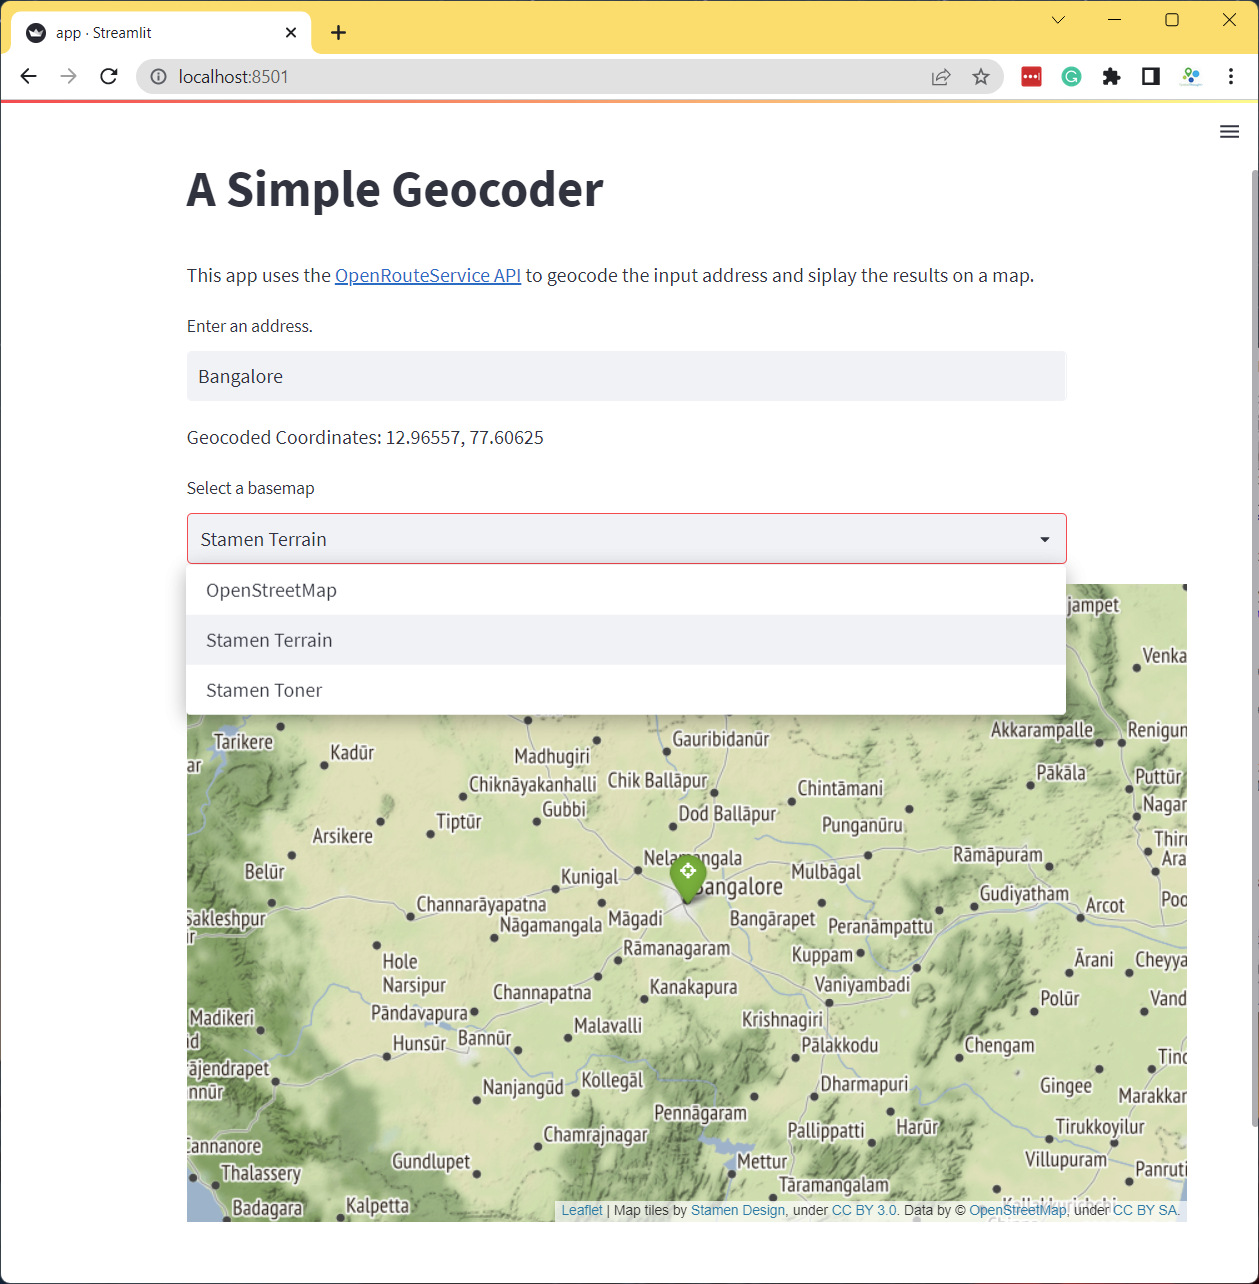
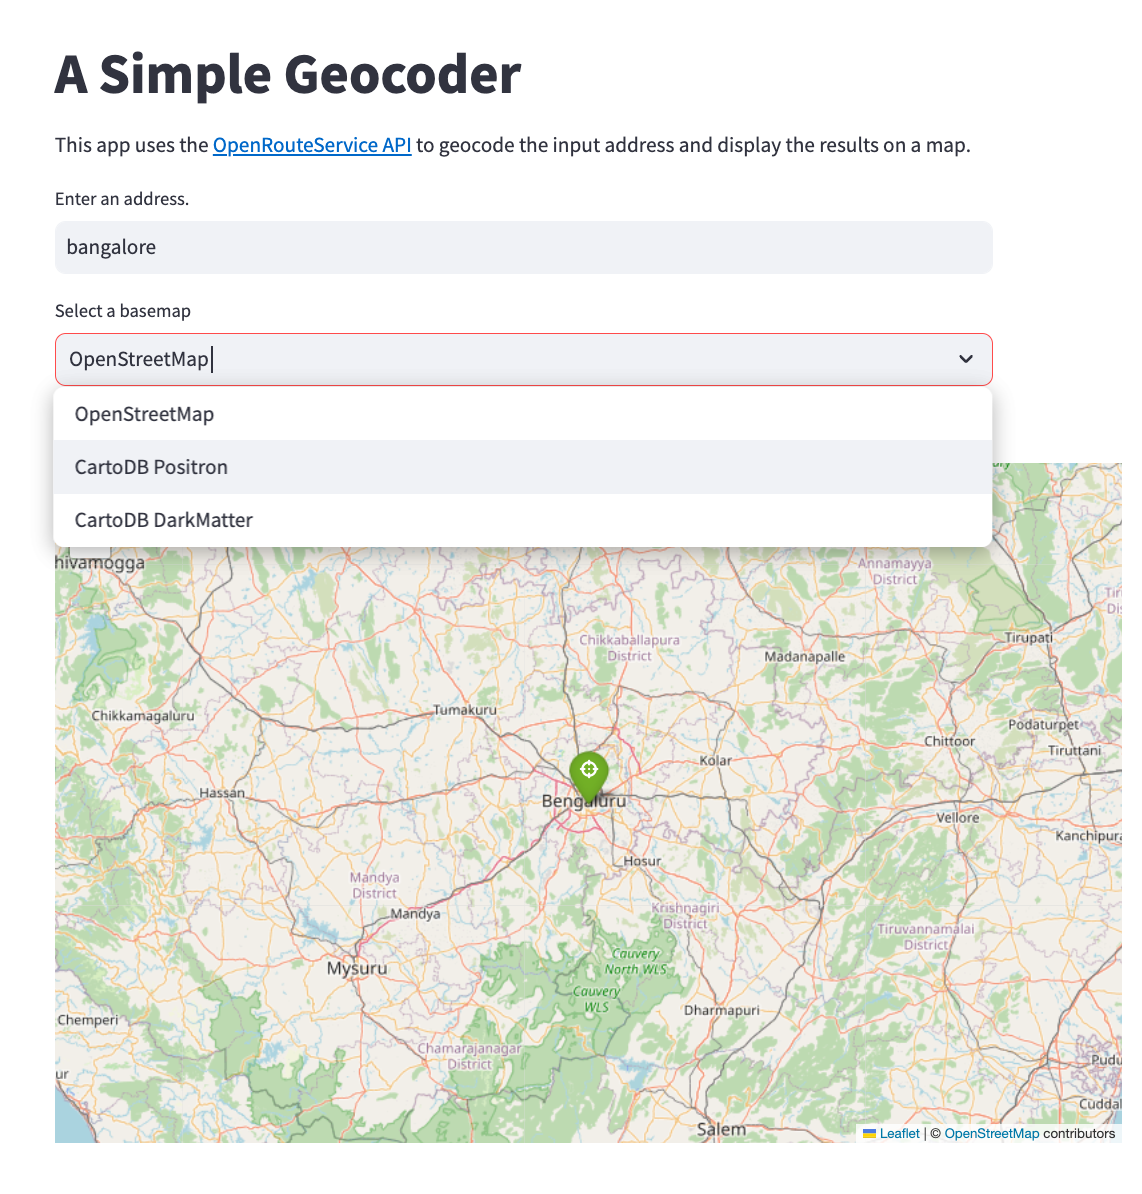
update

diff --git a/docs/python-dataviz.html b/docs/python-dataviz.html
@@ -3039,7 +3039,10 @@ to stop the streamlit server.</p>
 <p>Let’s create a simple interactive dashboard by loading a CSV file and
 displaying a chart with some statistics. We will get familiar with the
 streamlit app development workflow and explore different widgets and
-layout elements.</p>
+layout elements. View the final app at <a
+href="https://simpledashboard.streamlit.app/"><img
+src="https://static.streamlit.io/badges/streamlit_badge_black_white.svg"
+alt="A Simple Dashboard" /></a></p>
 <ol style="list-style-type: decimal">
 <li>Create a folder named <strong>simple_dashboard</strong> on your
 Desktop.</li>
@@ -3091,13 +3094,14 @@ class="sourceCode python"><code class="sourceCode python"><span id="cb185-1"><a 
 <span id="cb185-6"><a href="#cb185-6" tabindex="-1"></a>st.write(<span class="st">&#39;This dashboard displays a chart for the selected region.&#39;</span>)</span>
 <span id="cb185-7"><a href="#cb185-7" tabindex="-1"></a></span>
 <span id="cb185-8"><a href="#cb185-8" tabindex="-1"></a></span>
-<span id="cb185-9"><a href="#cb185-9" tabindex="-1"></a>data_url <span class="op">=</span> <span class="st">&#39;https://storage.googleapis.com/spatialthoughts-public-data/python-dataviz/osm/&#39;</span></span>
-<span id="cb185-10"><a href="#cb185-10" tabindex="-1"></a>csv_file <span class="op">=</span> <span class="st">&#39;highway_lengths_by_district.csv&#39;</span></span>
-<span id="cb185-11"><a href="#cb185-11" tabindex="-1"></a></span>
-<span id="cb185-12"><a href="#cb185-12" tabindex="-1"></a>url <span class="op">=</span> data_url <span class="op">+</span> csv_file</span>
-<span id="cb185-13"><a href="#cb185-13" tabindex="-1"></a>df <span class="op">=</span> pd.read_csv(url)</span>
-<span id="cb185-14"><a href="#cb185-14" tabindex="-1"></a></span>
-<span id="cb185-15"><a href="#cb185-15" tabindex="-1"></a>st.dataframe(df)</span></code></pre></div>
+<span id="cb185-9"><a href="#cb185-9" tabindex="-1"></a> data_url <span class="op">=</span> <span class="st">&#39;https://github.com/spatialthoughts/python-dataviz-web/releases/&#39;</span> \</span>
+<span id="cb185-10"><a href="#cb185-10" tabindex="-1"></a>      <span class="st">&#39;download/osm/&#39;</span></span>
+<span id="cb185-11"><a href="#cb185-11" tabindex="-1"></a>csv_file <span class="op">=</span> <span class="st">&#39;highway_lengths_by_district.csv&#39;</span></span>
+<span id="cb185-12"><a href="#cb185-12" tabindex="-1"></a></span>
+<span id="cb185-13"><a href="#cb185-13" tabindex="-1"></a>url <span class="op">=</span> data_url <span class="op">+</span> csv_file</span>
+<span id="cb185-14"><a href="#cb185-14" tabindex="-1"></a>df <span class="op">=</span> pd.read_csv(url)</span>
+<span id="cb185-15"><a href="#cb185-15" tabindex="-1"></a></span>
+<span id="cb185-16"><a href="#cb185-16" tabindex="-1"></a>st.dataframe(df)</span></code></pre></div>
 <p><img src="images/python_dataviz/dashboard5.png" width="75%" style="display: block; margin: auto;" /></p>
 <ol start="6" style="list-style-type: decimal">
 <li>The app will now display the dataframe. The dataframe consists of 3
@@ -3133,18 +3137,19 @@ class="sourceCode python"><code class="sourceCode python"><span id="cb186-1"><a 
 <span id="cb186-7"><a href="#cb186-7" tabindex="-1"></a></span>
 <span id="cb186-8"><a href="#cb186-8" tabindex="-1"></a><span class="at">@st.cache_data</span></span>
 <span id="cb186-9"><a href="#cb186-9" tabindex="-1"></a><span class="kw">def</span> load_data():</span>
-<span id="cb186-10"><a href="#cb186-10" tabindex="-1"></a>    data_url <span class="op">=</span> <span class="st">&#39;https://storage.googleapis.com/spatialthoughts-public-data/python-dataviz/osm/&#39;</span></span>
-<span id="cb186-11"><a href="#cb186-11" tabindex="-1"></a>    csv_file <span class="op">=</span> <span class="st">&#39;highway_lengths_by_district.csv&#39;</span></span>
-<span id="cb186-12"><a href="#cb186-12" tabindex="-1"></a></span>
-<span id="cb186-13"><a href="#cb186-13" tabindex="-1"></a>    url <span class="op">=</span> data_url <span class="op">+</span> csv_file</span>
-<span id="cb186-14"><a href="#cb186-14" tabindex="-1"></a>    df <span class="op">=</span> pd.read_csv(url)</span>
-<span id="cb186-15"><a href="#cb186-15" tabindex="-1"></a>    </span>
-<span id="cb186-16"><a href="#cb186-16" tabindex="-1"></a>    <span class="cf">return</span> df</span>
-<span id="cb186-17"><a href="#cb186-17" tabindex="-1"></a></span>
-<span id="cb186-18"><a href="#cb186-18" tabindex="-1"></a>df <span class="op">=</span> load_data()</span>
-<span id="cb186-19"><a href="#cb186-19" tabindex="-1"></a></span>
-<span id="cb186-20"><a href="#cb186-20" tabindex="-1"></a>districts <span class="op">=</span> df.DISTRICT.values</span>
-<span id="cb186-21"><a href="#cb186-21" tabindex="-1"></a>district <span class="op">=</span> st.selectbox(<span class="st">&#39;Select a district&#39;</span>, districts)</span></code></pre></div>
+<span id="cb186-10"><a href="#cb186-10" tabindex="-1"></a>      data_url <span class="op">=</span> <span class="st">&#39;https://github.com/spatialthoughts/python-dataviz-web/releases/&#39;</span> \</span>
+<span id="cb186-11"><a href="#cb186-11" tabindex="-1"></a>        <span class="st">&#39;download/osm/&#39;</span></span>
+<span id="cb186-12"><a href="#cb186-12" tabindex="-1"></a>      csv_file <span class="op">=</span> <span class="st">&#39;highway_lengths_by_district.csv&#39;</span></span>
+<span id="cb186-13"><a href="#cb186-13" tabindex="-1"></a></span>
+<span id="cb186-14"><a href="#cb186-14" tabindex="-1"></a>    url <span class="op">=</span> data_url <span class="op">+</span> csv_file</span>
+<span id="cb186-15"><a href="#cb186-15" tabindex="-1"></a>    df <span class="op">=</span> pd.read_csv(url)</span>
+<span id="cb186-16"><a href="#cb186-16" tabindex="-1"></a>    </span>
+<span id="cb186-17"><a href="#cb186-17" tabindex="-1"></a>    <span class="cf">return</span> df</span>
+<span id="cb186-18"><a href="#cb186-18" tabindex="-1"></a></span>
+<span id="cb186-19"><a href="#cb186-19" tabindex="-1"></a>df <span class="op">=</span> load_data()</span>
+<span id="cb186-20"><a href="#cb186-20" tabindex="-1"></a></span>
+<span id="cb186-21"><a href="#cb186-21" tabindex="-1"></a>districts <span class="op">=</span> df.DISTRICT.values</span>
+<span id="cb186-22"><a href="#cb186-22" tabindex="-1"></a>district <span class="op">=</span> st.selectbox(<span class="st">&#39;Select a district&#39;</span>, districts)</span></code></pre></div>
 <p><img src="images/python_dataviz/dashboard7.png" width="75%" style="display: block; margin: auto;" /></p>
 <ol start="8" style="list-style-type: decimal">
 <li>As the user selects an admin region from the selectbox, the selected
@@ -3164,27 +3169,28 @@ class="sourceCode python"><code class="sourceCode python"><span id="cb187-1"><a 
 <span id="cb187-8"><a href="#cb187-8" tabindex="-1"></a></span>
 <span id="cb187-9"><a href="#cb187-9" tabindex="-1"></a><span class="at">@st.cache_data</span></span>
 <span id="cb187-10"><a href="#cb187-10" tabindex="-1"></a><span class="kw">def</span> load_data():</span>
-<span id="cb187-11"><a href="#cb187-11" tabindex="-1"></a>    data_url <span class="op">=</span> <span class="st">&#39;https://storage.googleapis.com/spatialthoughts-public-data/python-dataviz/osm/&#39;</span></span>
-<span id="cb187-12"><a href="#cb187-12" tabindex="-1"></a>    csv_file <span class="op">=</span> <span class="st">&#39;highway_lengths_by_district.csv&#39;</span></span>
-<span id="cb187-13"><a href="#cb187-13" tabindex="-1"></a></span>
-<span id="cb187-14"><a href="#cb187-14" tabindex="-1"></a>    url <span class="op">=</span> data_url <span class="op">+</span> csv_file</span>
-<span id="cb187-15"><a href="#cb187-15" tabindex="-1"></a>    df <span class="op">=</span> pd.read_csv(url)</span>
-<span id="cb187-16"><a href="#cb187-16" tabindex="-1"></a>    </span>
-<span id="cb187-17"><a href="#cb187-17" tabindex="-1"></a>    <span class="cf">return</span> df</span>
-<span id="cb187-18"><a href="#cb187-18" tabindex="-1"></a></span>
-<span id="cb187-19"><a href="#cb187-19" tabindex="-1"></a>df <span class="op">=</span> load_data()</span>
-<span id="cb187-20"><a href="#cb187-20" tabindex="-1"></a></span>
-<span id="cb187-21"><a href="#cb187-21" tabindex="-1"></a>districts <span class="op">=</span> df.DISTRICT.values</span>
-<span id="cb187-22"><a href="#cb187-22" tabindex="-1"></a>district <span class="op">=</span> st.selectbox(<span class="st">&#39;Select a district&#39;</span>, districts)</span>
-<span id="cb187-23"><a href="#cb187-23" tabindex="-1"></a>filtered <span class="op">=</span> df[df[<span class="st">&#39;DISTRICT&#39;</span>] <span class="op">==</span> district] </span>
-<span id="cb187-24"><a href="#cb187-24" tabindex="-1"></a></span>
+<span id="cb187-11"><a href="#cb187-11" tabindex="-1"></a>    data_url <span class="op">=</span> <span class="st">&#39;https://github.com/spatialthoughts/python-dataviz-web/releases/&#39;</span> \</span>
+<span id="cb187-12"><a href="#cb187-12" tabindex="-1"></a>        <span class="st">&#39;download/osm/&#39;</span></span>
+<span id="cb187-13"><a href="#cb187-13" tabindex="-1"></a>    csv_file <span class="op">=</span> <span class="st">&#39;highway_lengths_by_district.csv&#39;</span></span>
+<span id="cb187-14"><a href="#cb187-14" tabindex="-1"></a></span>
+<span id="cb187-15"><a href="#cb187-15" tabindex="-1"></a>    url <span class="op">=</span> data_url <span class="op">+</span> csv_file</span>
+<span id="cb187-16"><a href="#cb187-16" tabindex="-1"></a>    df <span class="op">=</span> pd.read_csv(url)</span>
+<span id="cb187-17"><a href="#cb187-17" tabindex="-1"></a>    </span>
+<span id="cb187-18"><a href="#cb187-18" tabindex="-1"></a>    <span class="cf">return</span> df</span>
+<span id="cb187-19"><a href="#cb187-19" tabindex="-1"></a></span>
+<span id="cb187-20"><a href="#cb187-20" tabindex="-1"></a>df <span class="op">=</span> load_data()</span>
+<span id="cb187-21"><a href="#cb187-21" tabindex="-1"></a></span>
+<span id="cb187-22"><a href="#cb187-22" tabindex="-1"></a>districts <span class="op">=</span> df.DISTRICT.values</span>
+<span id="cb187-23"><a href="#cb187-23" tabindex="-1"></a>district <span class="op">=</span> st.selectbox(<span class="st">&#39;Select a district&#39;</span>, districts)</span>
+<span id="cb187-24"><a href="#cb187-24" tabindex="-1"></a>filtered <span class="op">=</span> df[df[<span class="st">&#39;DISTRICT&#39;</span>] <span class="op">==</span> district] </span>
 <span id="cb187-25"><a href="#cb187-25" tabindex="-1"></a></span>
-<span id="cb187-26"><a href="#cb187-26" tabindex="-1"></a>fig, ax <span class="op">=</span> plt.subplots(<span class="dv">1</span>, <span class="dv">1</span>)</span>
-<span id="cb187-27"><a href="#cb187-27" tabindex="-1"></a></span>
-<span id="cb187-28"><a href="#cb187-28" tabindex="-1"></a>filtered.plot(kind<span class="op">=</span><span class="st">&#39;bar&#39;</span>, ax<span class="op">=</span>ax, color<span class="op">=</span>[<span class="st">&#39;#0000FF&#39;</span>, <span class="st">&#39;#FF0000&#39;</span>],</span>
-<span id="cb187-29"><a href="#cb187-29" tabindex="-1"></a>    ylabel<span class="op">=</span><span class="st">&#39;Kilometers&#39;</span>, xlabel<span class="op">=</span><span class="st">&#39;Category&#39;</span>)</span>
-<span id="cb187-30"><a href="#cb187-30" tabindex="-1"></a>ax.set_xticklabels([])</span>
-<span id="cb187-31"><a href="#cb187-31" tabindex="-1"></a>stats <span class="op">=</span> st.pyplot(fig)</span></code></pre></div>
+<span id="cb187-26"><a href="#cb187-26" tabindex="-1"></a></span>
+<span id="cb187-27"><a href="#cb187-27" tabindex="-1"></a>fig, ax <span class="op">=</span> plt.subplots(<span class="dv">1</span>, <span class="dv">1</span>)</span>
+<span id="cb187-28"><a href="#cb187-28" tabindex="-1"></a></span>
+<span id="cb187-29"><a href="#cb187-29" tabindex="-1"></a>filtered.plot(kind<span class="op">=</span><span class="st">&#39;bar&#39;</span>, ax<span class="op">=</span>ax, color<span class="op">=</span>[<span class="st">&#39;#0000FF&#39;</span>, <span class="st">&#39;#FF0000&#39;</span>],</span>
+<span id="cb187-30"><a href="#cb187-30" tabindex="-1"></a>    ylabel<span class="op">=</span><span class="st">&#39;Kilometers&#39;</span>, xlabel<span class="op">=</span><span class="st">&#39;Category&#39;</span>)</span>
+<span id="cb187-31"><a href="#cb187-31" tabindex="-1"></a>ax.set_xticklabels([])</span>
+<span id="cb187-32"><a href="#cb187-32" tabindex="-1"></a>stats <span class="op">=</span> st.pyplot(fig)</span></code></pre></div>
 <p><img src="images/python_dataviz/dashboard8.png" width="75%" style="display: block; margin: auto;" /></p>
 <ol start="9" style="list-style-type: decimal">
 <li>Our dashboard now displays an updated chart every-time you change
@@ -3210,34 +3216,35 @@ class="sourceCode python"><code class="sourceCode python"><span id="cb188-1"><a 
 <span id="cb188-7"><a href="#cb188-7" tabindex="-1"></a></span>
 <span id="cb188-8"><a href="#cb188-8" tabindex="-1"></a><span class="at">@st.cache_data</span></span>
 <span id="cb188-9"><a href="#cb188-9" tabindex="-1"></a><span class="kw">def</span> load_data():</span>
-<span id="cb188-10"><a href="#cb188-10" tabindex="-1"></a>    data_url <span class="op">=</span> <span class="st">&#39;https://storage.googleapis.com/spatialthoughts-public-data/python-dataviz/osm/&#39;</span></span>
-<span id="cb188-11"><a href="#cb188-11" tabindex="-1"></a>    csv_file <span class="op">=</span> <span class="st">&#39;highway_lengths_by_district.csv&#39;</span></span>
-<span id="cb188-12"><a href="#cb188-12" tabindex="-1"></a></span>
-<span id="cb188-13"><a href="#cb188-13" tabindex="-1"></a>    url <span class="op">=</span> data_url <span class="op">+</span> csv_file</span>
-<span id="cb188-14"><a href="#cb188-14" tabindex="-1"></a>    df <span class="op">=</span> pd.read_csv(url)</span>
-<span id="cb188-15"><a href="#cb188-15" tabindex="-1"></a>    </span>
-<span id="cb188-16"><a href="#cb188-16" tabindex="-1"></a>    <span class="cf">return</span> df</span>
-<span id="cb188-17"><a href="#cb188-17" tabindex="-1"></a></span>
-<span id="cb188-18"><a href="#cb188-18" tabindex="-1"></a>df <span class="op">=</span> load_data()</span>
-<span id="cb188-19"><a href="#cb188-19" tabindex="-1"></a></span>
-<span id="cb188-20"><a href="#cb188-20" tabindex="-1"></a>districts <span class="op">=</span> df.DISTRICT.values</span>
-<span id="cb188-21"><a href="#cb188-21" tabindex="-1"></a>district <span class="op">=</span> st.selectbox(<span class="st">&#39;Select a district&#39;</span>, districts)</span>
-<span id="cb188-22"><a href="#cb188-22" tabindex="-1"></a>filtered <span class="op">=</span> df[df[<span class="st">&#39;DISTRICT&#39;</span>] <span class="op">==</span> district] </span>
-<span id="cb188-23"><a href="#cb188-23" tabindex="-1"></a></span>
-<span id="cb188-24"><a href="#cb188-24" tabindex="-1"></a>col1, col2 <span class="op">=</span> st.columns(<span class="dv">2</span>)</span>
-<span id="cb188-25"><a href="#cb188-25" tabindex="-1"></a></span>
-<span id="cb188-26"><a href="#cb188-26" tabindex="-1"></a>nh_color <span class="op">=</span> col1.color_picker(<span class="st">&#39;Pick NH Color&#39;</span>, <span class="st">&#39;#0000FF&#39;</span>, key<span class="op">=</span><span class="st">&#39;nh&#39;</span>)</span>
-<span id="cb188-27"><a href="#cb188-27" tabindex="-1"></a>sh_color <span class="op">=</span> col2.color_picker(<span class="st">&#39;Pick SH Color&#39;</span>, <span class="st">&#39;#FF0000&#39;</span>, key<span class="op">=</span><span class="st">&#39;sh&#39;</span>)</span>
-<span id="cb188-28"><a href="#cb188-28" tabindex="-1"></a></span>
-<span id="cb188-29"><a href="#cb188-29" tabindex="-1"></a>    </span>
-<span id="cb188-30"><a href="#cb188-30" tabindex="-1"></a>fig, ax <span class="op">=</span> plt.subplots(<span class="dv">1</span>, <span class="dv">1</span>)</span>
-<span id="cb188-31"><a href="#cb188-31" tabindex="-1"></a></span>
-<span id="cb188-32"><a href="#cb188-32" tabindex="-1"></a>filtered.plot(kind<span class="op">=</span><span class="st">&#39;bar&#39;</span>, ax<span class="op">=</span>ax, color<span class="op">=</span>[nh_color, sh_color],</span>
-<span id="cb188-33"><a href="#cb188-33" tabindex="-1"></a>    ylabel<span class="op">=</span><span class="st">&#39;Kilometers&#39;</span>, xlabel<span class="op">=</span><span class="st">&#39;Category&#39;</span>)</span>
-<span id="cb188-34"><a href="#cb188-34" tabindex="-1"></a>ax.set_title(<span class="st">&#39;Length of Highways&#39;</span>)</span>
-<span id="cb188-35"><a href="#cb188-35" tabindex="-1"></a>ax.set_ylim(<span class="dv">0</span>, <span class="dv">2500</span>)</span>
-<span id="cb188-36"><a href="#cb188-36" tabindex="-1"></a>ax.set_xticklabels([])</span>
-<span id="cb188-37"><a href="#cb188-37" tabindex="-1"></a>stats <span class="op">=</span> st.pyplot(fig)</span></code></pre></div>
+<span id="cb188-10"><a href="#cb188-10" tabindex="-1"></a>    data_url <span class="op">=</span> <span class="st">&#39;https://github.com/spatialthoughts/python-dataviz-web/releases/&#39;</span> \</span>
+<span id="cb188-11"><a href="#cb188-11" tabindex="-1"></a>        <span class="st">&#39;download/osm/&#39;</span></span>
+<span id="cb188-12"><a href="#cb188-12" tabindex="-1"></a>    csv_file <span class="op">=</span> <span class="st">&#39;highway_lengths_by_district.csv&#39;</span></span>
+<span id="cb188-13"><a href="#cb188-13" tabindex="-1"></a></span>
+<span id="cb188-14"><a href="#cb188-14" tabindex="-1"></a>    url <span class="op">=</span> data_url <span class="op">+</span> csv_file</span>
+<span id="cb188-15"><a href="#cb188-15" tabindex="-1"></a>    df <span class="op">=</span> pd.read_csv(url)</span>
+<span id="cb188-16"><a href="#cb188-16" tabindex="-1"></a>    </span>
+<span id="cb188-17"><a href="#cb188-17" tabindex="-1"></a>    <span class="cf">return</span> df</span>
+<span id="cb188-18"><a href="#cb188-18" tabindex="-1"></a></span>
+<span id="cb188-19"><a href="#cb188-19" tabindex="-1"></a>df <span class="op">=</span> load_data()</span>
+<span id="cb188-20"><a href="#cb188-20" tabindex="-1"></a></span>
+<span id="cb188-21"><a href="#cb188-21" tabindex="-1"></a>districts <span class="op">=</span> df.DISTRICT.values</span>
+<span id="cb188-22"><a href="#cb188-22" tabindex="-1"></a>district <span class="op">=</span> st.selectbox(<span class="st">&#39;Select a district&#39;</span>, districts)</span>
+<span id="cb188-23"><a href="#cb188-23" tabindex="-1"></a>filtered <span class="op">=</span> df[df[<span class="st">&#39;DISTRICT&#39;</span>] <span class="op">==</span> district] </span>
+<span id="cb188-24"><a href="#cb188-24" tabindex="-1"></a></span>
+<span id="cb188-25"><a href="#cb188-25" tabindex="-1"></a>col1, col2 <span class="op">=</span> st.columns(<span class="dv">2</span>)</span>
+<span id="cb188-26"><a href="#cb188-26" tabindex="-1"></a></span>
+<span id="cb188-27"><a href="#cb188-27" tabindex="-1"></a>nh_color <span class="op">=</span> col1.color_picker(<span class="st">&#39;Pick NH Color&#39;</span>, <span class="st">&#39;#0000FF&#39;</span>, key<span class="op">=</span><span class="st">&#39;nh&#39;</span>)</span>
+<span id="cb188-28"><a href="#cb188-28" tabindex="-1"></a>sh_color <span class="op">=</span> col2.color_picker(<span class="st">&#39;Pick SH Color&#39;</span>, <span class="st">&#39;#FF0000&#39;</span>, key<span class="op">=</span><span class="st">&#39;sh&#39;</span>)</span>
+<span id="cb188-29"><a href="#cb188-29" tabindex="-1"></a></span>
+<span id="cb188-30"><a href="#cb188-30" tabindex="-1"></a>    </span>
+<span id="cb188-31"><a href="#cb188-31" tabindex="-1"></a>fig, ax <span class="op">=</span> plt.subplots(<span class="dv">1</span>, <span class="dv">1</span>)</span>
+<span id="cb188-32"><a href="#cb188-32" tabindex="-1"></a></span>
+<span id="cb188-33"><a href="#cb188-33" tabindex="-1"></a>filtered.plot(kind<span class="op">=</span><span class="st">&#39;bar&#39;</span>, ax<span class="op">=</span>ax, color<span class="op">=</span>[nh_color, sh_color],</span>
+<span id="cb188-34"><a href="#cb188-34" tabindex="-1"></a>    ylabel<span class="op">=</span><span class="st">&#39;Kilometers&#39;</span>, xlabel<span class="op">=</span><span class="st">&#39;Category&#39;</span>)</span>
+<span id="cb188-35"><a href="#cb188-35" tabindex="-1"></a>ax.set_title(<span class="st">&#39;Length of Highways&#39;</span>)</span>
+<span id="cb188-36"><a href="#cb188-36" tabindex="-1"></a>ax.set_ylim(<span class="dv">0</span>, <span class="dv">2500</span>)</span>
+<span id="cb188-37"><a href="#cb188-37" tabindex="-1"></a>ax.set_xticklabels([])</span>
+<span id="cb188-38"><a href="#cb188-38" tabindex="-1"></a>stats <span class="op">=</span> st.pyplot(fig)</span></code></pre></div>
 <p><img src="images/python_dataviz/dashboard9.png" width="75%" style="display: block; margin: auto;" /></p>
 </div>
 <div id="exercise-10" class="section level2">
@@ -3376,7 +3383,7 @@ class="sourceCode python"><code class="sourceCode python"><span id="cb191-1"><a 
 basemap of the Folium map.</p>
 <ul>
 <li>Hint: Add a <code>st.selectbox()</code> with basemap strings.
-<code>st.selectbox('Select a basemap', ['OpenStreetMap', 'Stamen Terrain', 'Stamen Toner'])</code></li>
+<code>st.selectbox('Select a basemap', ['OpenStreetMap', 'CartoDB Positron', 'CartoDB DarkMatter'])</code></li>
 </ul>
 <p>Reference: <a
 href="https://python-visualization.github.io/folium/modules.html#module-folium.folium"><code>folium.folium.Map</code></a></p>

diff --git a/code/python_dataviz/solutions/simple_app/app.py b/code/python_dataviz/solutions/simple_app/app.py
@@ -32,7 +32,8 @@ if address:
     if results:
         st.write('Geocoded Coordinates: {}, {}'.format(results[0], results[1]))
         
-        basemap = st.selectbox('Select a basemap', ['OpenStreetMap', 'Stamen Terrain', 'Stamen Toner'])
+        basemap = st.selectbox('Select a basemap',
+          ['OpenStreetMap', 'CartoDB Positron', 'CartoDB DarkMatter'])
         m = folium.Map(location=results, zoom_start=8, tiles=basemap)
         folium.Marker(
                 results,

diff --git a/docs/code/python_dataviz/solutions/simple_app/app.py b/docs/code/python_dataviz/solutions/simple_app/app.py
@@ -32,7 +32,8 @@ if address:
     if results:
         st.write('Geocoded Coordinates: {}, {}'.format(results[0], results[1]))
         
-        basemap = st.selectbox('Select a basemap', ['OpenStreetMap', 'Stamen Terrain', 'Stamen Toner'])
+        basemap = st.selectbox('Select a basemap',
+          ['OpenStreetMap', 'CartoDB Positron', 'CartoDB DarkMatter'])
         m = folium.Map(location=results, zoom_start=8, tiles=basemap)
         folium.Marker(
                 results,

diff --git a/code/python_dataviz/streamlit/simple_dashboard/app.py b/code/python_dataviz/streamlit/simple_dashboard/app.py
@@ -7,7 +7,8 @@ st.write('This dashboard displays a chart for the selected region.')
 
 @st.cache_data
 def load_data():
-    data_url = 'https://storage.googleapis.com/spatialthoughts-public-data/python-dataviz/osm/'
+    data_url = 'https://github.com/spatialthoughts/python-dataviz-web/releases/' \
+        'download/osm/'
     csv_file = 'highway_lengths_by_district.csv'
 
     url = data_url + csv_file

diff --git a/docs/code/python_dataviz/streamlit/simple_dashboard/app.py b/docs/code/python_dataviz/streamlit/simple_dashboard/app.py
@@ -7,7 +7,8 @@ st.write('This dashboard displays a chart for the selected region.')
 
 @st.cache_data
 def load_data():
-    data_url = 'https://storage.googleapis.com/spatialthoughts-public-data/python-dataviz/osm/'
+    data_url = 'https://github.com/spatialthoughts/python-dataviz-web/releases/' \
+        'download/osm/'
     csv_file = 'highway_lengths_by_district.csv'
 
     url = data_url + csv_file

diff --git a/code/python_dataviz/solutions/simple_dashboard/app.py b/code/python_dataviz/solutions/simple_dashboard/app.py
@@ -7,7 +7,8 @@ st.write('This dashboard displays a chart for the selected region.')
 
 @st.cache
 def load_data():
-    data_url = 'https://storage.googleapis.com/spatialthoughts-public-data/python-dataviz/osm/'
+    data_url = 'https://github.com/spatialthoughts/python-dataviz-web/releases/' \
+        'download/osm/'
     csv_file = 'highway_lengths_by_district.csv'
 
     url = data_url + csv_file

diff --git a/docs/code/python_dataviz/solutions/simple_dashboard/app.py b/docs/code/python_dataviz/solutions/simple_dashboard/app.py
@@ -7,7 +7,8 @@ st.write('This dashboard displays a chart for the selected region.')
 
 @st.cache
 def load_data():
-    data_url = 'https://storage.googleapis.com/spatialthoughts-public-data/python-dataviz/osm/'
+    data_url = 'https://github.com/spatialthoughts/python-dataviz-web/releases/' \
+        'download/osm/'
     csv_file = 'highway_lengths_by_district.csv'
 
     url = data_url + csv_file
